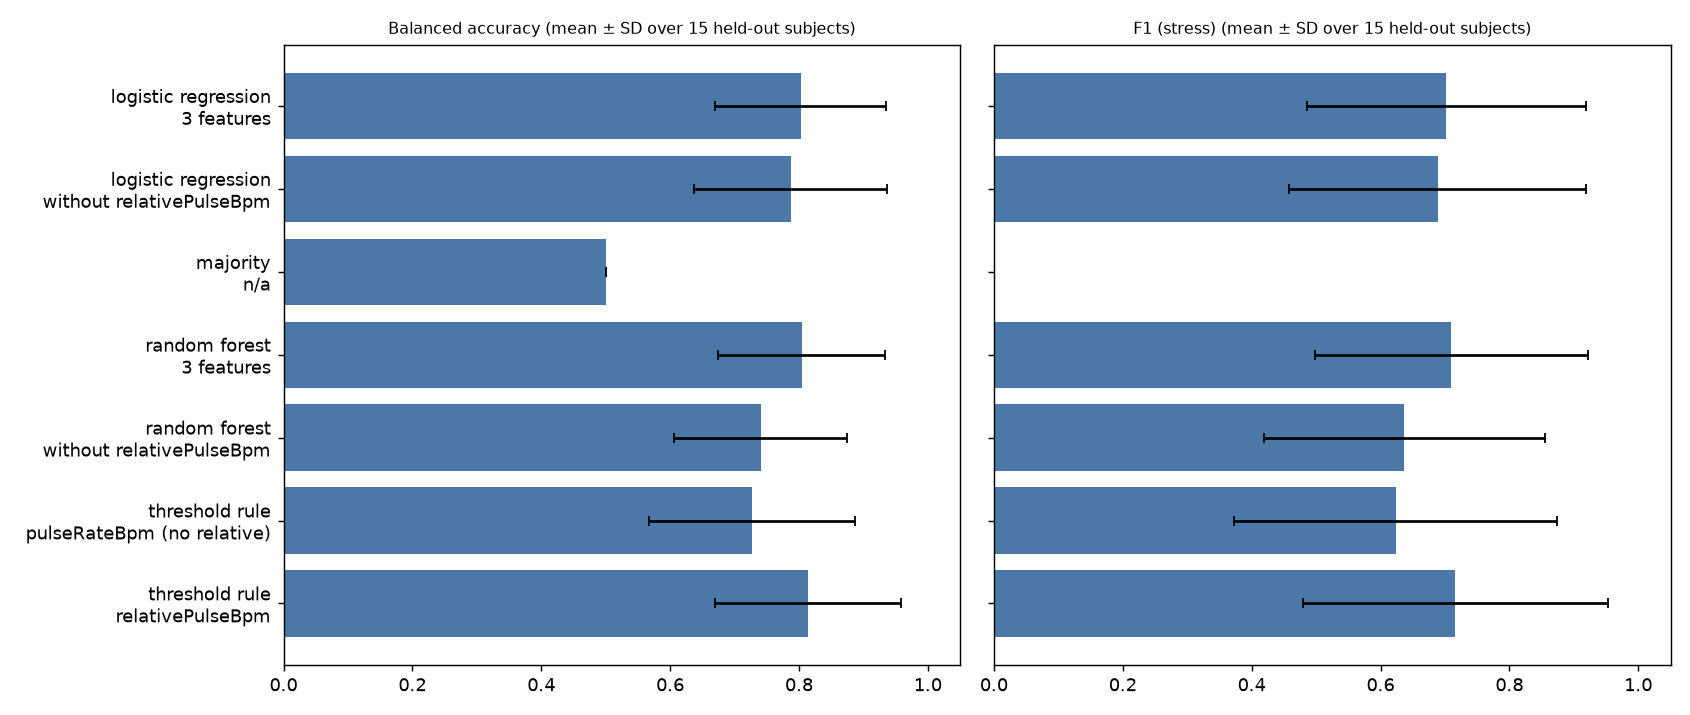
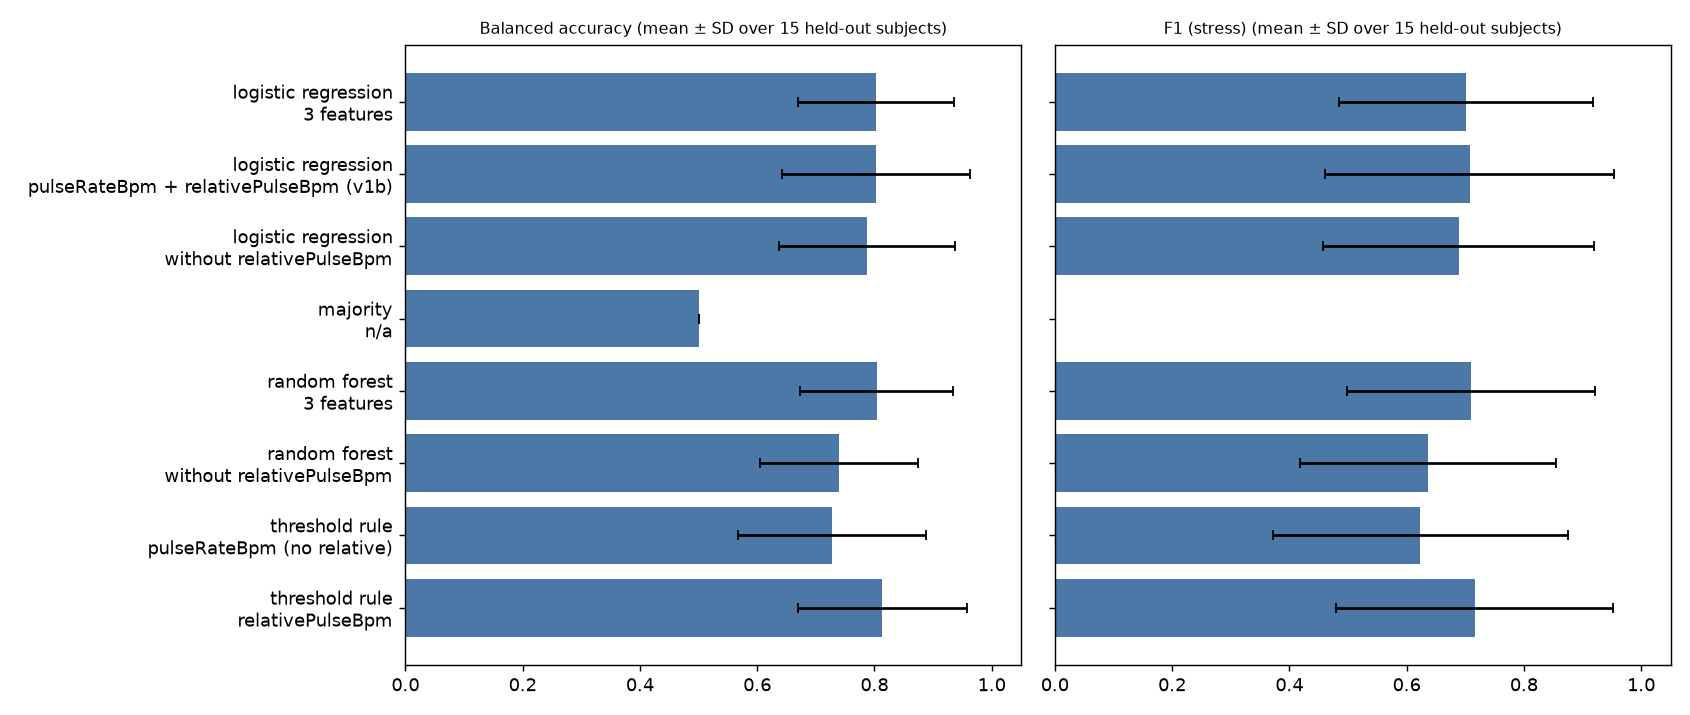
calm-band/model: add stress_lr_v1b (pulse-rate + relative-pulse only; SD slot zeroed)

diff --git a/calm-band/model/train.py b/calm-band/model/train.py
@@ -77,9 +77,11 @@ def main(wdir, out):
         add("threshold rule", "relativePulseBpm", (te.relativePulseBpm.values > th).astype(int))
         th2 = best_threshold(tr.pulseRateBpm.values, ytr)
         add("threshold rule", "pulseRateBpm (no relative)", (te.pulseRateBpm.values > th2).astype(int))
-        for fs, tag in ((F3, "3 features"), (F2, "without relativePulseBpm")):
+        FB = ["pulseRateBpm", "relativePulseBpm"]
+        for fs, tag in ((F3, "3 features"), (F2, "without relativePulseBpm"), (FB, "pulseRateBpm + relativePulseBpm (v1b)")):
             lr = make_pipeline(StandardScaler(), LogisticRegression(class_weight="balanced", max_iter=1000)).fit(tr[fs], ytr)
             add("logistic regression", tag, lr.predict(te[fs]))
+            if fs is FB: continue
             rf = RandomForestClassifier(200, min_samples_leaf=5, class_weight="balanced", random_state=0, n_jobs=-1).fit(tr[fs], ytr)
             add("random forest", tag, rf.predict(te[fs]))
     r = pd.DataFrame(recs)
@@ -116,6 +118,23 @@ def main(wdir, out):
     assert np.allclose(mine, ref, atol=1e-9), (mine, ref)
     print("formula check OK", mine.round(4), ref.round(4))
     print(json.dumps(spec, indent=1))
+    # ---- v1b: no pulse variability (SD slot kept: coef 0, mean 0, std 1) ----
+    FB = ["pulseRateBpm", "relativePulseBpm"]
+    eb = r[(r.model == "logistic regression") & (r.features == "pulseRateBpm + relativePulseBpm (v1b)")]
+    sb = StandardScaler().fit(df[FB]); lb = LogisticRegression(class_weight="balanced", max_iter=1000).fit(sb.transform(df[FB]), df.label)
+    v1b = dict(spec); v1b.update({"modelVersion": "stress_lr_v1b",
+        "scalerMean": [float(sb.mean_[0]), 0.0, float(sb.mean_[1])], "scalerStd": [float(sb.scale_[0]), 1.0, float(sb.scale_[1])],
+        "coef": [float(lb.coef_[0][0]), 0.0, float(lb.coef_[0][1])], "intercept": float(lb.intercept_[0]),
+        "evaluation": {"method": "leave-one-subject-out",
+                       "balancedAccuracyMean": round(eb.bal_acc.mean(), 4), "balancedAccuracySd": round(eb.bal_acc.std(), 4),
+                       "f1Mean": round(eb.f1.mean(), 4), "f1Sd": round(eb.f1.std(), 4)}})
+    json.dump(v1b, open(f"{out}/stress_lr_v1b.json", "w"), indent=1)
+    Xb = sample[F3].values
+    zb = v1b["intercept"] + ((Xb - v1b["scalerMean"]) / v1b["scalerStd"]) @ np.array(v1b["coef"])
+    mb = 1 / (1 + np.exp(-zb)); rb = lb.predict_proba(sb.transform(sample[FB]))[:, 1]
+    assert np.allclose(mb, rb, atol=1e-9), (mb, rb)
+    print("v1b formula check OK", mb.round(4), rb.round(4))
+    print(json.dumps(v1b, indent=1))
 
 if __name__ == "__main__":
     main(sys.argv[1], sys.argv[2])
